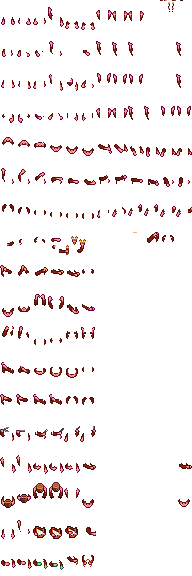
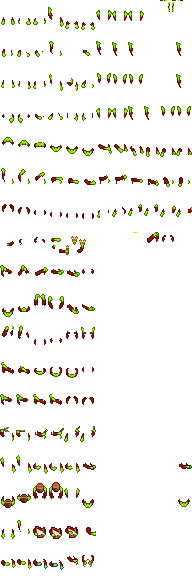
Add skin colorizer. Update arms to have gloves.

diff --git a/Assets/Scripts/Player/PlayerSkinColorizer.cs b/Assets/Scripts/Player/PlayerSkinColorizer.cs
@@ -1,0 +1,32 @@
+using System.Collections;
+using System.Collections.Generic;
+using UnityEngine;
+
+public class PlayerSkinColorizer : MonoBehaviour
+{
+    [SerializeField] private Color[] _skinTones;
+    [SerializeField] private SkinTone _mySkinTone;
+    [SerializeField] private SpriteRenderer[] _skinSprites;
+
+    private void OnValidate()
+    {
+        foreach(var img in _skinSprites)
+        {
+            img.color = _skinTones[(int)_mySkinTone];
+        }
+    }
+
+    private enum SkinTone
+    {
+        One = 0,
+        Two = 1,
+        Three = 2,
+        Four = 3,
+        Five = 4,
+        Six = 5,
+        Seven = 6,
+        Eight = 7,
+        Nine = 8,
+        Ten = 9
+    }
+}
